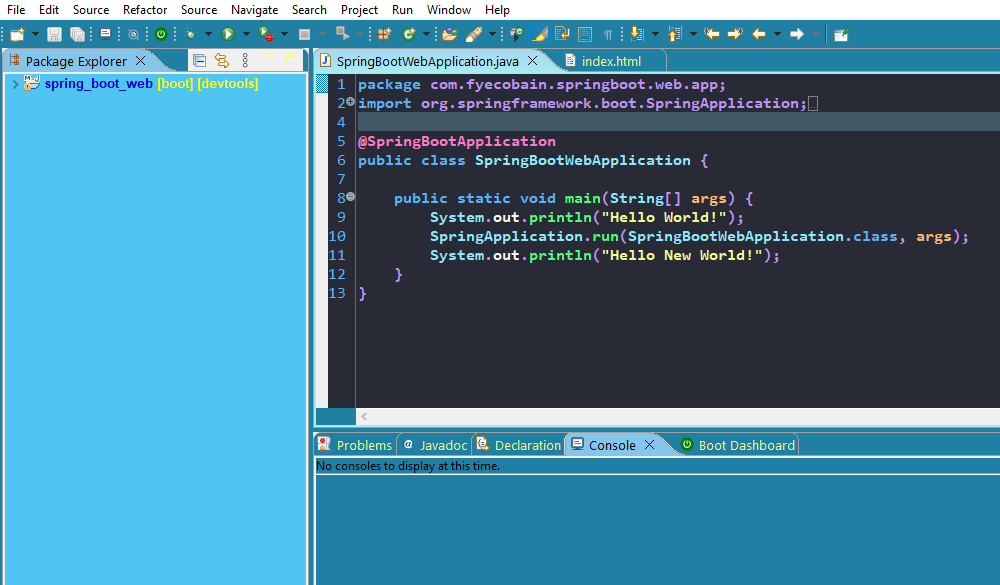
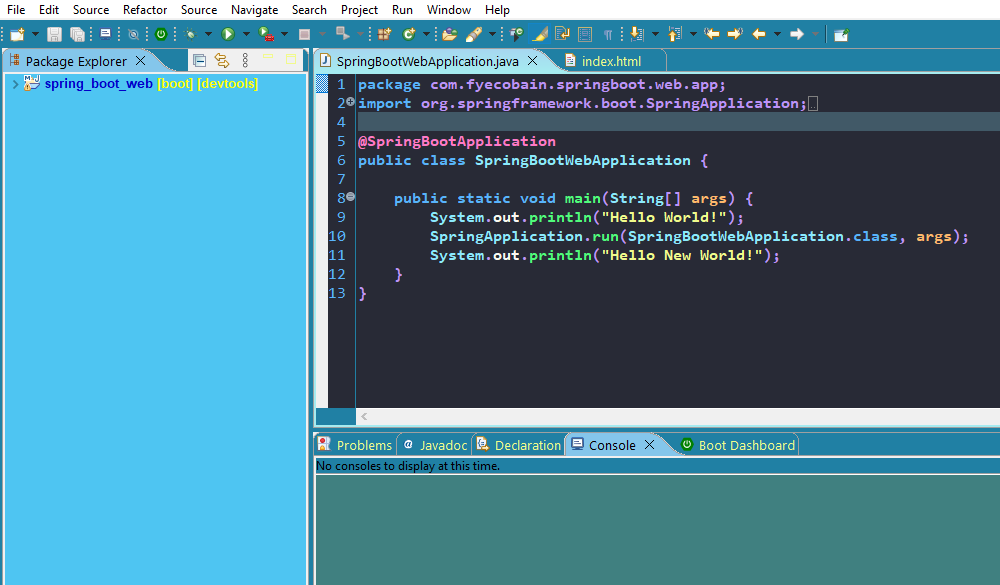
Version 2.5.0

Changed region(s): [[0.31, 0.8, 1.0, 1.0]]

diff --git a/README.md b/README.md
@@ -1,7 +1,7 @@
 # Dracula-based theme configuration for the Eclipse IDE or Spring Tool Suite
 
 ## Version
-> **2.4.2**
+> **2.5.0**
 
 [![screenshot.png](./screenshot.png)](https://raw.githubusercontent.com/FyeCobain/Draclipse/main/screenshot.png)
 
@@ -13,6 +13,7 @@
 > 4. **IDE Light Blue**: #A6D7F0 > rgb(166, 215, 240)
 > 5. **IDE Blue**: #84C6EB > rgb(132, 198, 235)
 > 6. **IDE Dark Blue**: #0000C8 > rgb(0, 0, 200)
+> 7. **IDE Dark Green**: #408080 > rgb(64, 128, 128)
 
 #### Dracula-based colors
 > 7. **Dracula Background**: #282A36 > rgb(40, 42, 54)
@@ -70,7 +71,7 @@
 > 1. Standart Out text color: **White**
 > 2. Standart Error text color: **Red**
 > 3. Standart In text color: **Green**
-> 4. Background Color: **IDE Background**
+> 4. Background Color: **IDE Dark Green**
 
 **2. "Basic" colors:**
 > Preferences > General > Appearance > Colors and Fonts > **Basic**:
